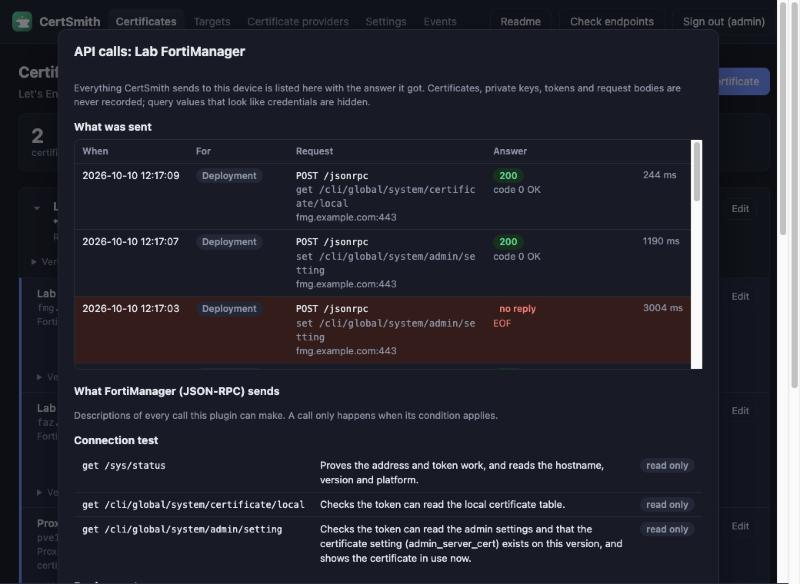
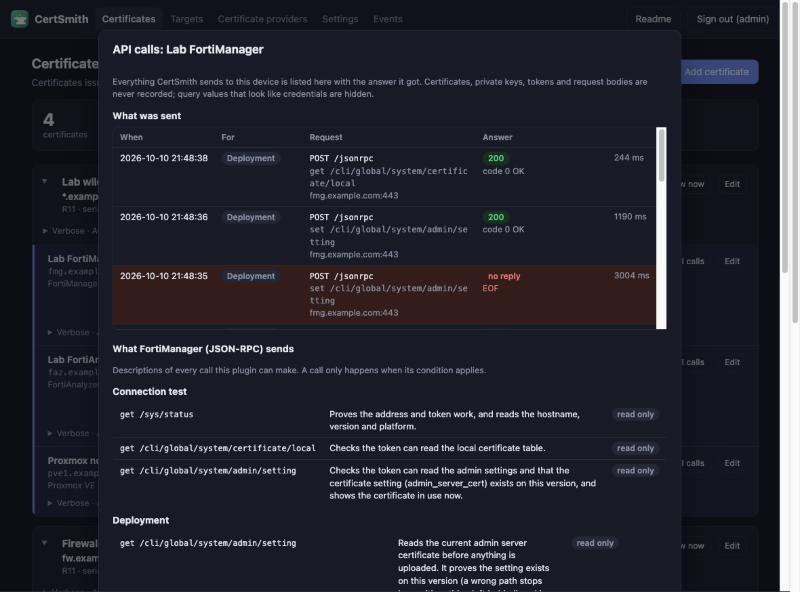
Retake the Readme screenshots
All 15 show the current interface: Check endpoints on the Certificates
page, the Imported certificates section, the import dialog in the Add
provider dialog, and right-aligned row buttons. Example names and
documentation-range addresses only.

diff --git a/internal/web/static/help.html b/internal/web/static/help.html
@@ -60,7 +60,7 @@
 <p>A provider defines <strong>the CA that issues the certificate</strong> and <strong>the DNS credentials used to validate domain ownership</strong>. Each certificate is assigned one provider.</p>
 
 <figure>
-  <img src="help/providers.jpg" alt="The Certificate providers page, split into Let's Encrypt and EAB providers">
+  <img src="help/providers.jpg" alt="The Certificate providers page, split into Let's Encrypt providers, EAB providers and imported certificates">
   <figcaption>Providers are grouped by certificate authority. The single <strong>Add provider</strong> button opens a dialog that asks which kind to create.</figcaption>
 </figure>
 
